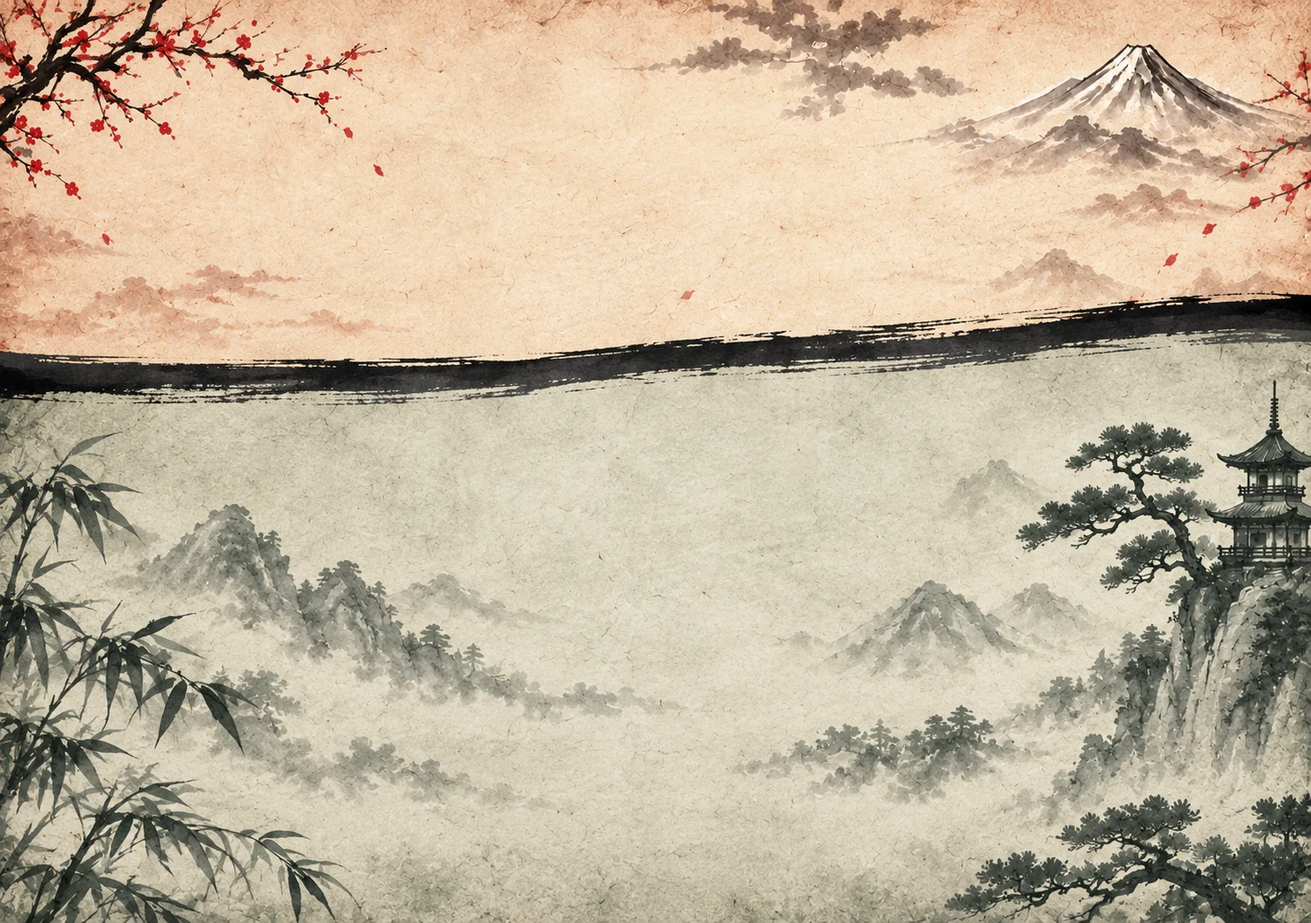
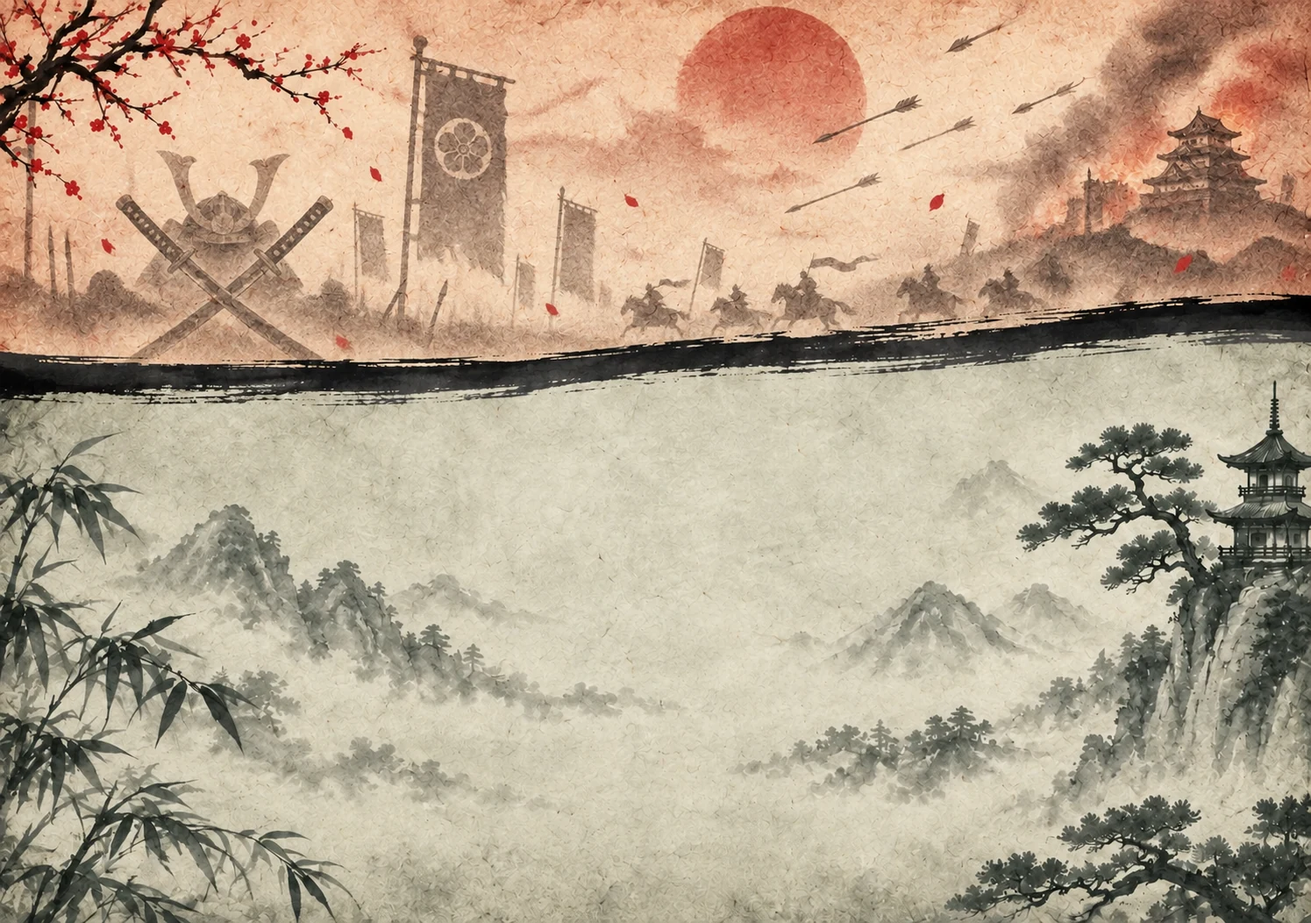
Памятка: верхняя зона — война, вмешательство под веткой сливы
Фон перерисован /img по прежнему как референсу: низ и кистевая граница
сохранены, верх стал полем битвы в той же туши — скрещённые катаны с
кабуто, знамёна, конница на гребне, стрелы, красное солнце, горящий
замок. «Удар дракона» с подписью «Вмешательство» ушёл в левый верхний
угол под ветку; заголовок листа остался над ним. Прежний фон с мирным
верхом — obsolete/cheat-bg-v2-zones.webp. Все четыре листа пересобраны.

diff --git a/rules/cheatsheet.html b/rules/cheatsheet.html
@@ -35,7 +35,7 @@
     box-shadow: 0 0 0 1px rgba(60,30,10,.4), 0 20px 50px rgba(0,0,0,.65); }
 
   /* заголовок — верхний левый угол, как заголовок главы */
-  .ttl { position:absolute; left:calc(6mm * 1.0); top:calc(3.5mm * 1.0); max-width:calc(46mm * 1.0); white-space:nowrap; display:flex; align-items:center; gap:2mm;
+  .ttl { position:absolute; left:calc(5mm * 1.0); top:calc(3mm * 1.0); max-width:calc(48mm * 1.0); white-space:nowrap; display:flex; align-items:center; gap:2mm;
     font-family:'Han Zi Web','Shippori Mincho',serif; font-size:calc(7.6pt * 1.0 + 1.2pt); text-transform:uppercase; letter-spacing:.04em; color:var(--ink); line-height:1; }
   .ttl .kanji { font-family:'Shippori Mincho','Noto Serif JP','Yu Mincho',serif; font-size:9pt; color:rgba(122,20,16,.45); text-transform:none; letter-spacing:.06em; }
   .ttl .kanji::before { content:"·"; font-family:'PT Sans Narrow',sans-serif; font-size:8pt; color:rgba(70,58,50,.28); margin-right:2mm; }
@@ -120,7 +120,7 @@
 <img class="card hand" data-k="hand2" src="media/cards/back.webp" alt="" style="left:16.80mm;top:97.00mm;width:14.00mm;height:22.40mm;transform:rotate(-22deg);">
 <img class="card hand" data-k="hand3" src="media/cards/back.webp" alt="" style="left:22.20mm;top:97.80mm;width:14.00mm;height:22.40mm;transform:rotate(-14deg);">
 <img class="card hand" data-k="hand4" src="media/cards/back.webp" alt="" style="left:27.60mm;top:100.20mm;width:14.00mm;height:22.40mm;transform:rotate(-6deg);">
-<img class="card" data-k="interv" src="media/cards/124.webp" alt="" style="left:66.00mm;top:17.00mm;width:17.00mm;height:27.20mm;transform:rotate(-8deg);">
+<img class="card" data-k="interv" src="media/cards/124.webp" alt="" style="left:36.00mm;top:20.00mm;width:17.00mm;height:27.20mm;transform:rotate(-8deg);">
 <img class="card" data-k="weapon" src="media/cards/1.webp" alt="" style="left:92.00mm;top:17.00mm;width:17.00mm;height:27.20mm;">
 <img class="card" data-k="modifier" src="media/cards/70.webp" alt="" style="left:107.00mm;top:24.00mm;width:17.00mm;height:27.20mm;">
 <img class="card" data-k="defense" src="media/cards/48.webp" alt="" style="left:134.00mm;top:21.00mm;width:17.00mm;height:27.20mm;">
@@ -143,7 +143,7 @@
 <img class="card" data-k="effect1" src="media/cards/97.webp" alt="" style="left:142.00mm;top:93.50mm;width:17.00mm;height:27.20mm;">
 <svg class="ov" viewBox="0 0 210 148" preserveAspectRatio="none" xmlns="http://www.w3.org/2000/svg"><g></g></svg>
 <div class="co co-top" style="left:92.00mm;top:2.00mm;width:34.00mm"><h4><i class="ic" data-b="weapon"></i>Атака</h4><p>До <b>2</b> за ход. Оружие берёт цель, если его сложность ≥ сложности цели (обычно 1); метательное — любую. Один модификатор.</p></div>
-<div class="co co-top" style="left:56.00mm;top:2.00mm;width:34.00mm"><h4><i class="ic" data-b="intervention"></i>Вмешательство</h4><p>Не в свой ход: «Удар дракона» добивает на <b>1</b>. Всё сыгранное — одновременно, порядок выбирает тот, чья жизнь на кону.</p></div>
+<div class="co co-left" style="left:5.00mm;top:12.00mm;width:30.00mm"><h4><i class="ic" data-b="intervention"></i>Вмешательство</h4><p>Не в свой ход: «Удар дракона» добивает на <b>1</b>. Всё сыгранное — одновременно, порядок выбирает тот, чья жизнь на кону.</p></div>
 <div class="co co-right" style="left:154.00mm;top:18.00mm;width:51.00mm"><h4><i class="ic" data-b="defense"></i>Защита</h4><p>Своя — атака отбита, бонусы атакующего не срабатывают. Союзная, как вмешательство: одна — раны до <b>1</b>, две от команды — до <b>0</b>. Беззащитного не спасти.</p></div>
 <div class="co co-top" style="left:58.00mm;top:55.00mm;width:44.00mm"><h4><i class="ic" data-b="trap"></i>Ловушка</h4><p>Одна, рубашкой вверх, фигурка сверху. Срабатывает, если атакуют и вы не защищаетесь; метательное её не будит. Подложили не ловушку — умираете.</p></div>
 <div class="co co-right" style="left:125.00mm;top:63.00mm;width:40.00mm"><h4><i class="ic" data-b="aura"></i>Аура</h4><p>Над стойкой, одна на игрока. Действует на всех за столом; у команды складываются. Новая — прежняя в руку.</p></div>

diff --git a/rules/cheatsheet-en.html b/rules/cheatsheet-en.html
@@ -35,7 +35,7 @@
     box-shadow: 0 0 0 1px rgba(60,30,10,.4), 0 20px 50px rgba(0,0,0,.65); }
 
   /* заголовок — верхний левый угол, как заголовок главы */
-  .ttl { position:absolute; left:calc(6mm * 1.0); top:calc(3.5mm * 1.0); max-width:calc(46mm * 1.0); white-space:nowrap; display:flex; align-items:center; gap:2mm;
+  .ttl { position:absolute; left:calc(5mm * 1.0); top:calc(3mm * 1.0); max-width:calc(48mm * 1.0); white-space:nowrap; display:flex; align-items:center; gap:2mm;
     font-family:'Han Zi Web','Shippori Mincho',serif; font-size:calc(7.6pt * 1.0 + 1.2pt); text-transform:uppercase; letter-spacing:.04em; color:var(--ink); line-height:1; }
   .ttl .kanji { font-family:'Shippori Mincho','Noto Serif JP','Yu Mincho',serif; font-size:9pt; color:rgba(122,20,16,.45); text-transform:none; letter-spacing:.06em; }
   .ttl .kanji::before { content:"·"; font-family:'PT Sans Narrow',sans-serif; font-size:8pt; color:rgba(70,58,50,.28); margin-right:2mm; }
@@ -120,7 +120,7 @@
 <img class="card hand" data-k="hand2" src="media/cards/back.webp" alt="" style="left:16.80mm;top:97.00mm;width:14.00mm;height:22.40mm;transform:rotate(-22deg);">
 <img class="card hand" data-k="hand3" src="media/cards/back.webp" alt="" style="left:22.20mm;top:97.80mm;width:14.00mm;height:22.40mm;transform:rotate(-14deg);">
 <img class="card hand" data-k="hand4" src="media/cards/back.webp" alt="" style="left:27.60mm;top:100.20mm;width:14.00mm;height:22.40mm;transform:rotate(-6deg);">
-<img class="card" data-k="interv" src="media/cards/124-en.webp" alt="" style="left:66.00mm;top:17.00mm;width:17.00mm;height:27.20mm;transform:rotate(-8deg);">
+<img class="card" data-k="interv" src="media/cards/124-en.webp" alt="" style="left:36.00mm;top:20.00mm;width:17.00mm;height:27.20mm;transform:rotate(-8deg);">
 <img class="card" data-k="weapon" src="media/cards/1-en.webp" alt="" style="left:92.00mm;top:17.00mm;width:17.00mm;height:27.20mm;">
 <img class="card" data-k="modifier" src="media/cards/70-en.webp" alt="" style="left:107.00mm;top:24.00mm;width:17.00mm;height:27.20mm;">
 <img class="card" data-k="defense" src="media/cards/48-en.webp" alt="" style="left:134.00mm;top:21.00mm;width:17.00mm;height:27.20mm;">
@@ -143,7 +143,7 @@
 <img class="card" data-k="effect1" src="media/cards/97-en.webp" alt="" style="left:142.00mm;top:93.50mm;width:17.00mm;height:27.20mm;">
 <svg class="ov" viewBox="0 0 210 148" preserveAspectRatio="none" xmlns="http://www.w3.org/2000/svg"><g></g></svg>
 <div class="co co-top" style="left:92.00mm;top:2.00mm;width:34.00mm"><h4><i class="ic" data-b="weapon"></i>Attack</h4><p>Up to <b>2</b> per turn. A weapon reaches the target if its complexity ≥ the target's (usually 1); thrown — anyone. One modifier. Fists — 1/1 for both attacks.</p></div>
-<div class="co co-top" style="left:56.00mm;top:2.00mm;width:34.00mm"><h4><i class="ic" data-b="intervention"></i>Intervention</h4><p>Outside your turn: «Dragon Strike» finishes a wounded player for <b>1</b>. Everything played is simultaneous; the order is picked by whoever's life is at stake.</p></div>
+<div class="co co-left" style="left:5.00mm;top:12.00mm;width:30.00mm"><h4><i class="ic" data-b="intervention"></i>Intervention</h4><p>Outside your turn: «Dragon Strike» finishes a wounded player for <b>1</b>. Everything played is simultaneous; the order is picked by whoever's life is at stake.</p></div>
 <div class="co co-right" style="left:154.00mm;top:18.00mm;width:51.00mm"><h4><i class="ic" data-b="defense"></i>Defense</h4><p>Your own — attack blocked, attacker's bonuses do not fire. An ally's, as an intervention: one card — wounds down to <b>1</b>, two from the team — to <b>0</b>. The defenceless cannot be saved.</p></div>
 <div class="co co-top" style="left:58.00mm;top:55.00mm;width:44.00mm"><h4><i class="ic" data-b="trap"></i>Trap</h4><p>One, face down, figure on top. Fires when you are attacked and do not defend; thrown weapons do not wake it. Planted something else — you die.</p></div>
 <div class="co co-right" style="left:125.00mm;top:63.00mm;width:40.00mm"><h4><i class="ic" data-b="aura"></i>Aura</h4><p>Above the stance, one per player. Affects everyone at the table; a team's auras stack. New one — the old returns to hand.</p></div>

diff --git a/rules/cheatsheet-a6.html b/rules/cheatsheet-a6.html
@@ -35,7 +35,7 @@
     box-shadow: 0 0 0 1px rgba(60,30,10,.4), 0 20px 50px rgba(0,0,0,.65); }
 
   /* заголовок — верхний левый угол, как заголовок главы */
-  .ttl { position:absolute; left:calc(6mm * 0.705); top:calc(3.5mm * 0.705); max-width:calc(46mm * 0.705); white-space:nowrap; display:flex; align-items:center; gap:2mm;
+  .ttl { position:absolute; left:calc(5mm * 0.705); top:calc(3mm * 0.705); max-width:calc(48mm * 0.705); white-space:nowrap; display:flex; align-items:center; gap:2mm;
     font-family:'Han Zi Web','Shippori Mincho',serif; font-size:calc(7.6pt * 0.705 + 1.2pt); text-transform:uppercase; letter-spacing:.04em; color:var(--ink); line-height:1; }
   .ttl .kanji { font-family:'Shippori Mincho','Noto Serif JP','Yu Mincho',serif; font-size:9pt; color:rgba(122,20,16,.45); text-transform:none; letter-spacing:.06em; }
   .ttl .kanji::before { content:"·"; font-family:'PT Sans Narrow',sans-serif; font-size:8pt; color:rgba(70,58,50,.28); margin-right:2mm; }
@@ -120,7 +120,7 @@
 <img class="card hand" data-k="hand2" src="media/cards/back.webp" alt="" style="left:11.84mm;top:68.38mm;width:9.87mm;height:15.79mm;transform:rotate(-22deg);">
 <img class="card hand" data-k="hand3" src="media/cards/back.webp" alt="" style="left:15.65mm;top:68.95mm;width:9.87mm;height:15.79mm;transform:rotate(-14deg);">
 <img class="card hand" data-k="hand4" src="media/cards/back.webp" alt="" style="left:19.46mm;top:70.64mm;width:9.87mm;height:15.79mm;transform:rotate(-6deg);">
-<img class="card" data-k="interv" src="media/cards/124.webp" alt="" style="left:46.53mm;top:11.98mm;width:11.98mm;height:19.18mm;transform:rotate(-8deg);">
+<img class="card" data-k="interv" src="media/cards/124.webp" alt="" style="left:25.38mm;top:14.10mm;width:11.98mm;height:19.18mm;transform:rotate(-8deg);">
 <img class="card" data-k="weapon" src="media/cards/1.webp" alt="" style="left:64.86mm;top:11.98mm;width:11.98mm;height:19.18mm;">
 <img class="card" data-k="modifier" src="media/cards/70.webp" alt="" style="left:75.44mm;top:16.92mm;width:11.98mm;height:19.18mm;">
 <img class="card" data-k="defense" src="media/cards/48.webp" alt="" style="left:94.47mm;top:14.80mm;width:11.98mm;height:19.18mm;">
@@ -143,7 +143,7 @@
 <img class="card" data-k="effect1" src="media/cards/97.webp" alt="" style="left:100.11mm;top:65.92mm;width:11.98mm;height:19.18mm;">
 <svg class="ov" viewBox="0 0 210 148" preserveAspectRatio="none" xmlns="http://www.w3.org/2000/svg"><g></g></svg>
 <div class="co co-top" style="left:64.86mm;top:1.41mm;width:23.97mm"><h4><i class="ic" data-b="weapon"></i>Атака</h4><p>До <b>2</b> за ход. Сложность оружия ≥ сложности цели (обычно 1). Один модификатор.</p></div>
-<div class="co co-top" style="left:39.48mm;top:1.41mm;width:23.97mm"><h4><i class="ic" data-b="intervention"></i>Вмешательство</h4><p>Не в свой ход. Всё сыгранное — одновременно; порядок — у того, чья жизнь на кону.</p></div>
+<div class="co co-left" style="left:3.52mm;top:8.46mm;width:21.15mm"><h4><i class="ic" data-b="intervention"></i>Вмешательство</h4><p>Не в свой ход. Всё сыгранное — одновременно; порядок — у того, чья жизнь на кону.</p></div>
 <div class="co co-right" style="left:108.57mm;top:12.69mm;width:35.95mm"><h4><i class="ic" data-b="defense"></i>Защита</h4><p>Своя — атака отбита. Союзная: одна — раны до <b>1</b>, две — до <b>0</b>. Беззащитного не спасти.</p></div>
 <div class="co co-top" style="left:40.89mm;top:38.77mm;width:31.02mm"><h4><i class="ic" data-b="trap"></i>Ловушка</h4><p>Одна, рубашкой вверх, фигурка сверху. Срабатывает, если не защищаетесь; метательное не будит.</p></div>
 <div class="co co-right" style="left:88.12mm;top:44.41mm;width:28.20mm"><h4><i class="ic" data-b="aura"></i>Аура</h4><p>Одна на игрока, действует на всех. Новая — прежняя в руку.</p></div>

diff --git a/rules/cheatsheet-en-a6.html b/rules/cheatsheet-en-a6.html
@@ -35,7 +35,7 @@
     box-shadow: 0 0 0 1px rgba(60,30,10,.4), 0 20px 50px rgba(0,0,0,.65); }
 
   /* заголовок — верхний левый угол, как заголовок главы */
-  .ttl { position:absolute; left:calc(6mm * 0.705); top:calc(3.5mm * 0.705); max-width:calc(46mm * 0.705); white-space:nowrap; display:flex; align-items:center; gap:2mm;
+  .ttl { position:absolute; left:calc(5mm * 0.705); top:calc(3mm * 0.705); max-width:calc(48mm * 0.705); white-space:nowrap; display:flex; align-items:center; gap:2mm;
     font-family:'Han Zi Web','Shippori Mincho',serif; font-size:calc(7.6pt * 0.705 + 1.2pt); text-transform:uppercase; letter-spacing:.04em; color:var(--ink); line-height:1; }
   .ttl .kanji { font-family:'Shippori Mincho','Noto Serif JP','Yu Mincho',serif; font-size:9pt; color:rgba(122,20,16,.45); text-transform:none; letter-spacing:.06em; }
   .ttl .kanji::before { content:"·"; font-family:'PT Sans Narrow',sans-serif; font-size:8pt; color:rgba(70,58,50,.28); margin-right:2mm; }
@@ -120,7 +120,7 @@
 <img class="card hand" data-k="hand2" src="media/cards/back.webp" alt="" style="left:11.84mm;top:68.38mm;width:9.87mm;height:15.79mm;transform:rotate(-22deg);">
 <img class="card hand" data-k="hand3" src="media/cards/back.webp" alt="" style="left:15.65mm;top:68.95mm;width:9.87mm;height:15.79mm;transform:rotate(-14deg);">
 <img class="card hand" data-k="hand4" src="media/cards/back.webp" alt="" style="left:19.46mm;top:70.64mm;width:9.87mm;height:15.79mm;transform:rotate(-6deg);">
-<img class="card" data-k="interv" src="media/cards/124-en.webp" alt="" style="left:46.53mm;top:11.98mm;width:11.98mm;height:19.18mm;transform:rotate(-8deg);">
+<img class="card" data-k="interv" src="media/cards/124-en.webp" alt="" style="left:25.38mm;top:14.10mm;width:11.98mm;height:19.18mm;transform:rotate(-8deg);">
 <img class="card" data-k="weapon" src="media/cards/1-en.webp" alt="" style="left:64.86mm;top:11.98mm;width:11.98mm;height:19.18mm;">
 <img class="card" data-k="modifier" src="media/cards/70-en.webp" alt="" style="left:75.44mm;top:16.92mm;width:11.98mm;height:19.18mm;">
 <img class="card" data-k="defense" src="media/cards/48-en.webp" alt="" style="left:94.47mm;top:14.80mm;width:11.98mm;height:19.18mm;">
@@ -143,7 +143,7 @@
 <img class="card" data-k="effect1" src="media/cards/97-en.webp" alt="" style="left:100.11mm;top:65.92mm;width:11.98mm;height:19.18mm;">
 <svg class="ov" viewBox="0 0 210 148" preserveAspectRatio="none" xmlns="http://www.w3.org/2000/svg"><g></g></svg>
 <div class="co co-top" style="left:64.86mm;top:1.41mm;width:23.97mm"><h4><i class="ic" data-b="weapon"></i>Attack</h4><p>Up to <b>2</b> per turn. Weapon complexity ≥ target complexity (usually 1). One modifier.</p></div>
-<div class="co co-top" style="left:39.48mm;top:1.41mm;width:23.97mm"><h4><i class="ic" data-b="intervention"></i>Intervention</h4><p>Outside your turn. All played at once; order picked by whoever is at stake.</p></div>
+<div class="co co-left" style="left:3.52mm;top:8.46mm;width:21.15mm"><h4><i class="ic" data-b="intervention"></i>Intervention</h4><p>Outside your turn. All played at once; order picked by whoever is at stake.</p></div>
 <div class="co co-right" style="left:108.57mm;top:12.69mm;width:35.95mm"><h4><i class="ic" data-b="defense"></i>Defense</h4><p>Own — attack blocked. Ally: one — wounds to <b>1</b>, two — to <b>0</b>. Defenceless can't be saved.</p></div>
 <div class="co co-top" style="left:40.89mm;top:38.77mm;width:31.02mm"><h4><i class="ic" data-b="trap"></i>Trap</h4><p>One, face down, figure on top. Fires if you do not defend; thrown weapons do not wake it.</p></div>
 <div class="co co-right" style="left:88.12mm;top:44.41mm;width:28.20mm"><h4><i class="ic" data-b="aura"></i>Aura</h4><p>One per player, affects everyone. New one — old returns to hand.</p></div>

diff --git a/tools/build-cheatsheet.py b/tools/build-cheatsheet.py
@@ -17,10 +17,13 @@ rules/media/cards/ (для EN — *-en.webp), фигурки из rules/media/fi
 
 Оформление — по макету ref/cheatsheet-mockup-2026-09-16.png (/img по нашей
 раскладке): фон rules/media/cheat-bg.webp — васи с тушевыми украшениями,
-разделённый широким кистевым штрихом на две зоны: тёплая верхняя (полоса
-действий: вмешательство, атака, защита) и холодная нижняя (стол игрока);
-штрих идёт от ~61 мм слева до ~52 мм справа, всё содержимое зоны стола
-лежит ниже него. Прежний фон без зон — media/obsolete/cheat-bg-v1.webp.
+разделённый широким кистевым штрихом на две зоны: верхняя — война
+(красное небо, катаны с кабуто, знамёна, конница, стрелы, горящий замок:
+полоса действий — вмешательство под веткой сливы слева, атака по центру,
+защита справа), нижняя — мир (серо-зелёные горы, бамбук, сосна с пагодой:
+стол игрока). Штрих идёт от ~61 мм слева до ~52 мм справа, всё содержимое
+стола лежит ниже него. Прежние фоны — media/obsolete/cheat-bg-v1.webp
+(без зон) и cheat-bg-v2-zones.webp (зоны, но мирный верх).
 Заголовки выносок на кистевом мазке rules/media/fig/brush-plate.webp,
 значки — чёрные круги с белым знаком, под текстом мягкое бумажное свечение.
 
@@ -57,7 +60,7 @@ for i in range(5):
     fig(f'hand{i}', 6 + i * 5.4, 97 + (i - 2) ** 2 * .8, 14, 22.4, 'media/cards/back.webp', rot=-38 + i * 8, cls='card hand')
 
 # --- атака и защита: полоса под заголовком; подписи атаки и вмешательства — над картами ---
-card('interv',   66, 17, 124, rot=-8)              # Удар дракона — вмешательство, слева от оружия
+card('interv',   36, 20, 124, rot=-8)              # Удар дракона — вмешательство, под веткой сливы слева
 card('weapon',   92, 17, 1)                        # Катана
 card('modifier', 107, 24, 70)                      # Гнев сёгуна — внахлёст
 card('defense',  134, 21, 48)                      # Защита
@@ -81,7 +84,7 @@ card('effect1', 142, 93.5, 97)                     # Пыль в глаза — 
 # (цели, плашка (x, y, w), сторона (осталась для точки яда), значок, ключ текста)
 CALL = [
  (['weapon','modifier'], (92, 2, 34), 'top', 'weapon', 'attack'),           # над оружием, по его ширине
- (['interv'], (56, 2, 34), 'top', 'intervention', 'interv'),                 # над «Ударом дракона»
+ (['interv'], (5, 12, 30), 'left', 'intervention', 'interv'),                # слева от «Удара дракона», под веткой
  (['defense'], (154, 18, 51), 'right', 'defense', 'defense'),
  (['trapcard','trap'], (58, 55, 44), 'top', 'trap', 'trap'),
  (['aura'], (125, 63, 40), 'right', 'aura', 'aura'),
@@ -299,7 +302,7 @@ CSS = r"""
     box-shadow: 0 0 0 1px rgba(60,30,10,.4), 0 20px 50px rgba(0,0,0,.65); }
 
   /* заголовок — верхний левый угол, как заголовок главы */
-  .ttl { position:absolute; left:calc(6mm * {{k}}); top:calc(3.5mm * {{k}}); max-width:calc(46mm * {{k}}); white-space:nowrap; display:flex; align-items:center; gap:2mm;
+  .ttl { position:absolute; left:calc(5mm * {{k}}); top:calc(3mm * {{k}}); max-width:calc(48mm * {{k}}); white-space:nowrap; display:flex; align-items:center; gap:2mm;
     font-family:'Han Zi Web','Shippori Mincho',serif; font-size:calc(7.6pt * {{k}} + 1.2pt); text-transform:uppercase; letter-spacing:.04em; color:var(--ink); line-height:1; }
   .ttl .kanji { font-family:'Shippori Mincho','Noto Serif JP','Yu Mincho',serif; font-size:9pt; color:rgba(122,20,16,.45); text-transform:none; letter-spacing:.06em; }
   .ttl .kanji::before { content:"·"; font-family:'PT Sans Narrow',sans-serif; font-size:8pt; color:rgba(70,58,50,.28); margin-right:2mm; }

diff --git a/CLAUDE.md b/CLAUDE.md
@@ -399,7 +399,7 @@ cardboard/                    # корень репозитория = корен
 │   ├── cheatsheet.html   # Памятка A5: схема зоны игрока из превью карт и фигурок с подписями — СОБИРАЕТСЯ tools/build-cheatsheet.py
 │   ├── cheatsheet.md     # Прежний текст трёхколоночной памятки (сама вёрстка — в obsolete/cheatsheet-columns*.html)
 │   ├── media/fig/        # Фигурки яда и капкана, кистевой мазок под заголовки (webp с альфой); media/cards/back.webp — рубашка 5:8
-│   ├── media/cheat-bg.webp # Фон памятки-схемы: васи с тушью, кистевой штрих делит лист на тёплую полосу действий и холодный стол игрока (/img); без зон — media/obsolete/cheat-bg-v1.webp
+│   ├── media/cheat-bg.webp # Фон памятки-схемы: васи с тушью, кистевой штрих делит лист на военный верх (полоса действий) и мирный низ (стол игрока), /img; прежние версии — media/obsolete/cheat-bg-v*.webp
 │   ├── patchnotes/       # Патч-ноуты правил: что было → что стало → что трогает; 2026-09-16.md — внесён
 │   ├── cheatsheet-en.html # …английская памятка, тоже сборка; cheatsheet-en.md — прежний текст
 │   ├── cheatsheet-a6.html # …и A6-версии обоих языков (cheatsheet-en-a6.html): та же схема в масштабе, тексты короче
